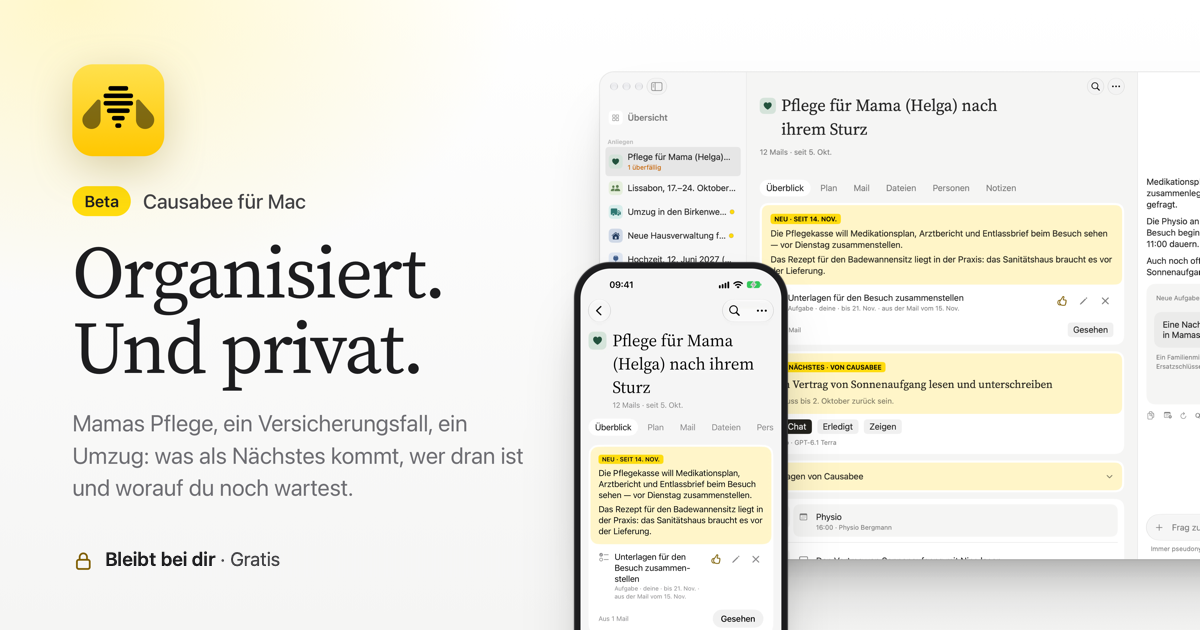
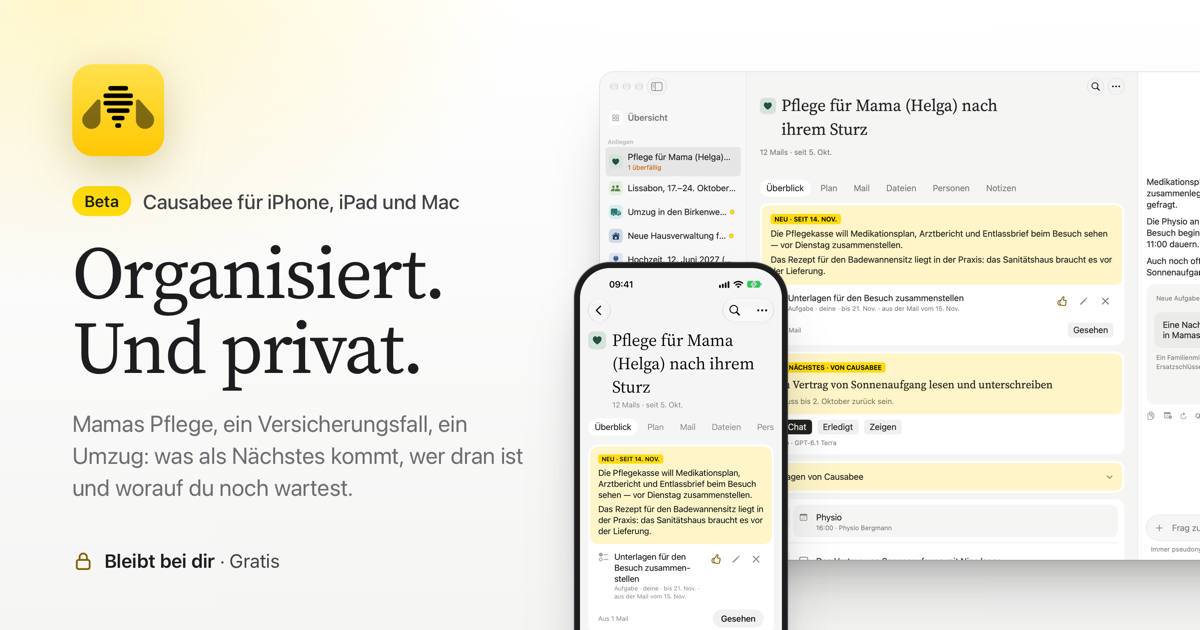
Site from causabee d8ae0155

diff --git a/site/de/index.html b/site/de/index.html
@@ -3,17 +3,17 @@
 <head>
 <meta charset="utf-8">
 <meta name="viewport" content="width=device-width, initial-scale=1">
-<title>Causabee für Mac – Organisiert. Und privat.</title>
+<title>Causabee für iPhone, iPad und Mac – Organisiert. Und privat.</title>
 <meta name="description" content="Causabee macht aus allem, was hereinkommt, ein klares Anliegen: Mamas Pflege, ein Versicherungsfall, ein Umzug — was als Nächstes kommt, wer dran ist und worauf du noch wartest. Privat von Grund auf. Gratis. Die Tarnung der Namen ist Open Source.">
 <meta name="theme-color" content="#ffffff">
 <meta property="og:type" content="website">
 <meta property="og:locale" content="de_DE">
-<meta property="og:title" content="Causabee für Mac">
+<meta property="og:title" content="Causabee für iPhone, iPad und Mac">
 <meta property="og:description" content="Organisiert. Und privat. Mamas Pflege, ein Versicherungsfall, ein Umzug: was als Nächstes kommt, wer dran ist und worauf du noch wartest.">
-<meta property="og:image" content="https://causabee.app/assets/og-de.png?v=2">
+<meta property="og:image" content="https://causabee.app/assets/og-de.png?v=3">
 <meta property="og:image:width" content="1200">
 <meta property="og:image:height" content="630">
-<meta property="og:image:alt" content="Causabee für Mac: Organisiert. Und privat. Die Mac-Übersicht der Anliegen und ein Anliegen auf dem iPhone.">
+<meta property="og:image:alt" content="Causabee für iPhone, iPad und Mac: Organisiert. Und privat. Die Mac-Übersicht der Anliegen und ein Anliegen auf dem iPhone.">
 <meta name="twitter:card" content="summary_large_image">
 <link rel="canonical" href="https://causabee.app/de/">
 <link rel="alternate" hreflang="en" href="https://causabee.app/">
@@ -48,7 +48,7 @@
     <div class="hero__top">
       <svg class="app-icon hero-icon" viewBox="0 0 1024 1024" width="112" height="112" role="img" aria-label="Das Causabee-Symbol: eine Biene in schwarzen Streifen auf Gelb"><defs><linearGradient id="icon-honey" x1="0" y1="0" x2="0" y2="1"><stop offset="0" stop-color="#FFE14D"/><stop offset="1" stop-color="#FFC700"/></linearGradient></defs><rect width="1024" height="1024" rx="230" fill="url(#icon-honey)"/><svg x="112" y="243.1" width="800" height="477.8" viewBox="0 0 4201 2509" overflow="visible"><path class="wl" d="M840.879 830.165C919.099 742.266 1064.5 797.594 1064.5 915.257V1953.13C1064.83 1960.84 1065 1968.59 1065 1976.37C1065 1984.16 1064.83 1991.9 1064.5 1999.61V2052.87L1059.83 2050.87C1023.6 2309.69 801.309 2508.87 532.5 2508.87C238.408 2508.87 0 2270.46 0 1976.37C0 1829.33 59.598 1696.21 155.956 1599.85L840.879 830.165Z"/><path class="wr" d="M3360.12 830.165C3281.9 742.267 3136.5 797.594 3136.5 915.257V1953.13C3136.17 1960.84 3136 1968.59 3136 1976.37C3136 1984.16 3136.17 1991.9 3136.5 1999.61V2052.87L3141.17 2050.87C3177.4 2309.69 3399.69 2508.87 3668.5 2508.87C3962.59 2508.87 4201 2270.46 4201 1976.37C4201 1829.33 4141.4 1696.21 4045.04 1599.85L3360.12 830.165Z"/><rect class="bar" style="--i:0" x="1525" y="0" width="1151" height="264" rx="112"/><rect class="bar" style="--i:1" x="1241" y="436" width="1719" height="264" rx="112"/><rect class="bar" style="--i:2" x="1241" y="872" width="1719" height="264" rx="112"/><rect class="bar" style="--i:3" x="1436" y="1308" width="1329" height="264" rx="112"/><rect class="bar" style="--i:4" x="1729.5" y="1744" width="742" height="264" rx="112"/><rect class="bar" style="--i:5" x="1925.5" y="2180" width="350" height="264" rx="112"/></svg></svg>
       <div class="hero__text">
-        <p class="eyebrow"><span class="pill">Neu</span><span>Causabee für Mac</span></p>
+        <p class="eyebrow"><span class="pill">Neu</span><span>Causabee für iPhone, iPad und Mac</span></p>
         <h1 class="display">Organisiert.<br>Und privat.</h1>
         <p class="lead">Mamas Pflege — der Arzt, die Pflegekasse, der Pflegedienst, deine Schwester. Causabee macht aus allem, was hereinkommt, ein klares Anliegen: was als Nächstes kommt, wer dran ist und worauf du noch wartest. Was hereinkommt, bleibt auf deinen Geräten und in deiner eigenen iCloud. Die KI bekommt eine Tarnung: Namen, Adressen und Nummern werden zuerst ersetzt.</p>
       </div>

diff --git a/site/index.html b/site/index.html
@@ -3,16 +3,16 @@
 <head>
 <meta charset="utf-8">
 <meta name="viewport" content="width=device-width, initial-scale=1">
-<title>Causabee for Mac – Be organized. Be private.</title>
+<title>Causabee for iPhone, iPad and Mac – Be organized. Be private.</title>
 <meta name="description" content="Causabee turns the mail, letters and chats of a matter — a parent’s care, an insurance claim, a move — into what comes next, who’s on it, and what you’re still waiting for. Private by design. Free. Its name hiding is open source.">
 <meta name="theme-color" content="#ffffff">
 <meta property="og:type" content="website">
-<meta property="og:title" content="Causabee for Mac">
+<meta property="og:title" content="Causabee for iPhone, iPad and Mac">
 <meta property="og:description" content="Be organized. Be private. Mum’s care, an insurance claim, a move: what comes next, who’s on it, and what you’re still waiting for.">
-<meta property="og:image" content="https://causabee.app/assets/og.png?v=042d0195">
+<meta property="og:image" content="https://causabee.app/assets/og.png?v=3">
 <meta property="og:image:width" content="1200">
 <meta property="og:image:height" content="630">
-<meta property="og:image:alt" content="Causabee for Mac: Be organized. Be private. The Mac overview of matters and a matter on iPhone.">
+<meta property="og:image:alt" content="Causabee for iPhone, iPad and Mac: Be organized. Be private. The Mac overview of matters and a matter on iPhone.">
 <meta name="twitter:card" content="summary_large_image">
 <link rel="canonical" href="https://causabee.app/">
 <link rel="alternate" hreflang="en" href="https://causabee.app/">
@@ -47,7 +47,7 @@
     <div class="hero__top">
       <svg class="app-icon hero-icon" viewBox="0 0 1024 1024" width="112" height="112" role="img" aria-label="The Causabee app icon: a bee in black stripes on yellow"><defs><linearGradient id="icon-honey" x1="0" y1="0" x2="0" y2="1"><stop offset="0" stop-color="#FFE14D"/><stop offset="1" stop-color="#FFC700"/></linearGradient></defs><rect width="1024" height="1024" rx="230" fill="url(#icon-honey)"/><svg x="112" y="243.1" width="800" height="477.8" viewBox="0 0 4201 2509" overflow="visible"><path class="wl" d="M840.879 830.165C919.099 742.266 1064.5 797.594 1064.5 915.257V1953.13C1064.83 1960.84 1065 1968.59 1065 1976.37C1065 1984.16 1064.83 1991.9 1064.5 1999.61V2052.87L1059.83 2050.87C1023.6 2309.69 801.309 2508.87 532.5 2508.87C238.408 2508.87 0 2270.46 0 1976.37C0 1829.33 59.598 1696.21 155.956 1599.85L840.879 830.165Z"/><path class="wr" d="M3360.12 830.165C3281.9 742.267 3136.5 797.594 3136.5 915.257V1953.13C3136.17 1960.84 3136 1968.59 3136 1976.37C3136 1984.16 3136.17 1991.9 3136.5 1999.61V2052.87L3141.17 2050.87C3177.4 2309.69 3399.69 2508.87 3668.5 2508.87C3962.59 2508.87 4201 2270.46 4201 1976.37C4201 1829.33 4141.4 1696.21 4045.04 1599.85L3360.12 830.165Z"/><rect class="bar" style="--i:0" x="1525" y="0" width="1151" height="264" rx="112"/><rect class="bar" style="--i:1" x="1241" y="436" width="1719" height="264" rx="112"/><rect class="bar" style="--i:2" x="1241" y="872" width="1719" height="264" rx="112"/><rect class="bar" style="--i:3" x="1436" y="1308" width="1329" height="264" rx="112"/><rect class="bar" style="--i:4" x="1729.5" y="1744" width="742" height="264" rx="112"/><rect class="bar" style="--i:5" x="1925.5" y="2180" width="350" height="264" rx="112"/></svg></svg>
       <div class="hero__text">
-        <p class="eyebrow"><span class="pill">New</span><span>Causabee for Mac</span></p>
+        <p class="eyebrow"><span class="pill">New</span><span>Causabee for iPhone, iPad and Mac</span></p>
         <h1 class="display">Be organized.<br>Be private.</h1>
         <p class="lead">Mum’s care — the doctor, the insurer, the care service, your sister. Causabee turns the mail, letters and chats into one clear matter: what comes next, who’s on it, and what you’re still waiting for. What comes in stays on your devices and in your own iCloud. The AI is sent a disguise: names, addresses and numbers replaced first.</p>
       </div>
